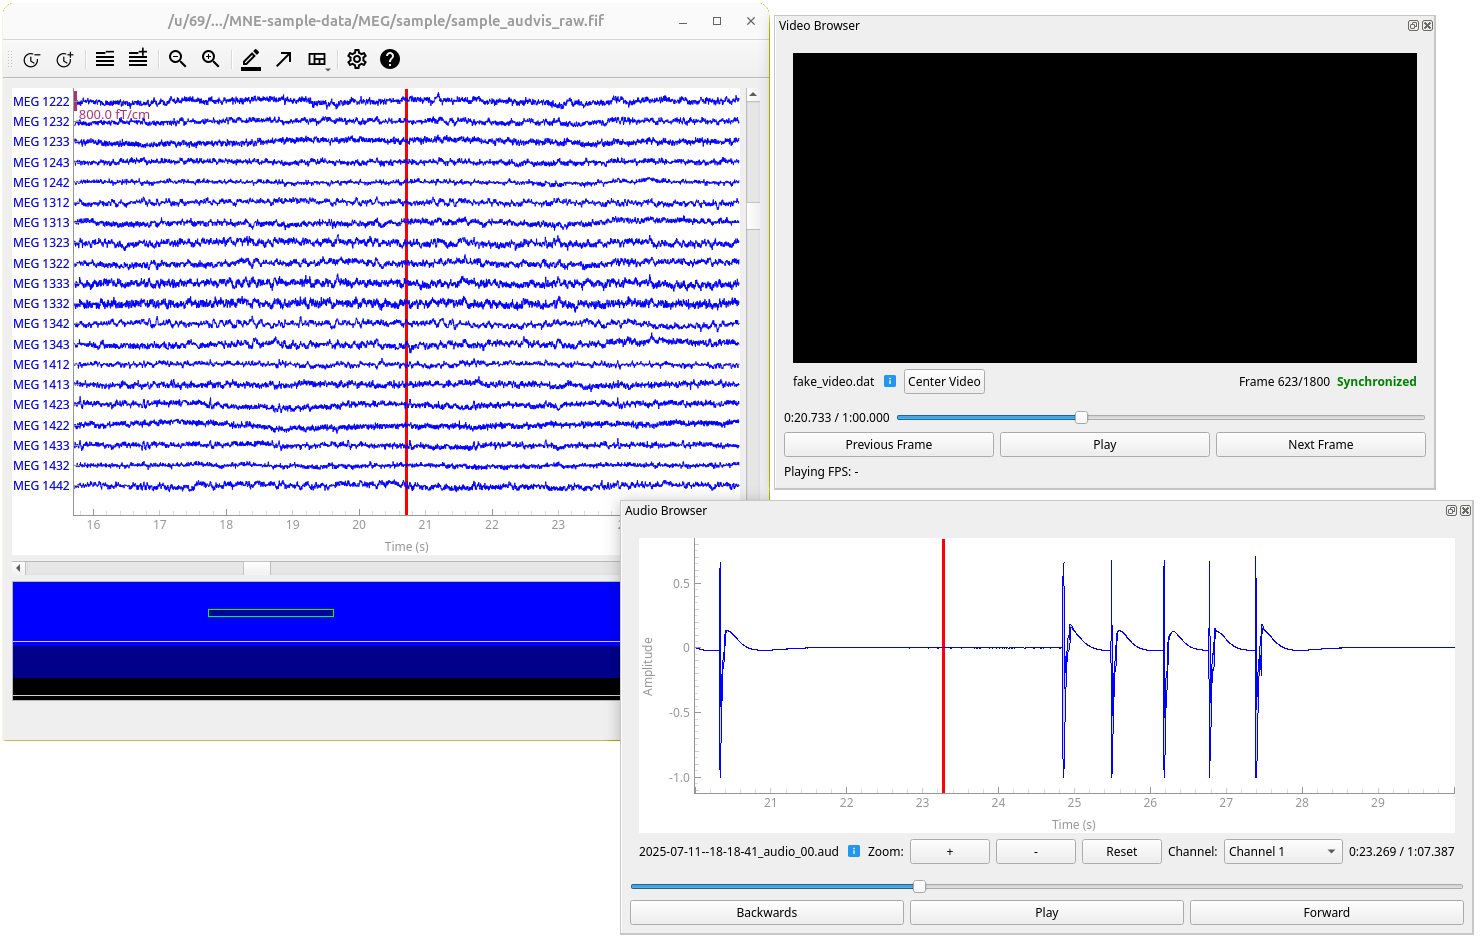
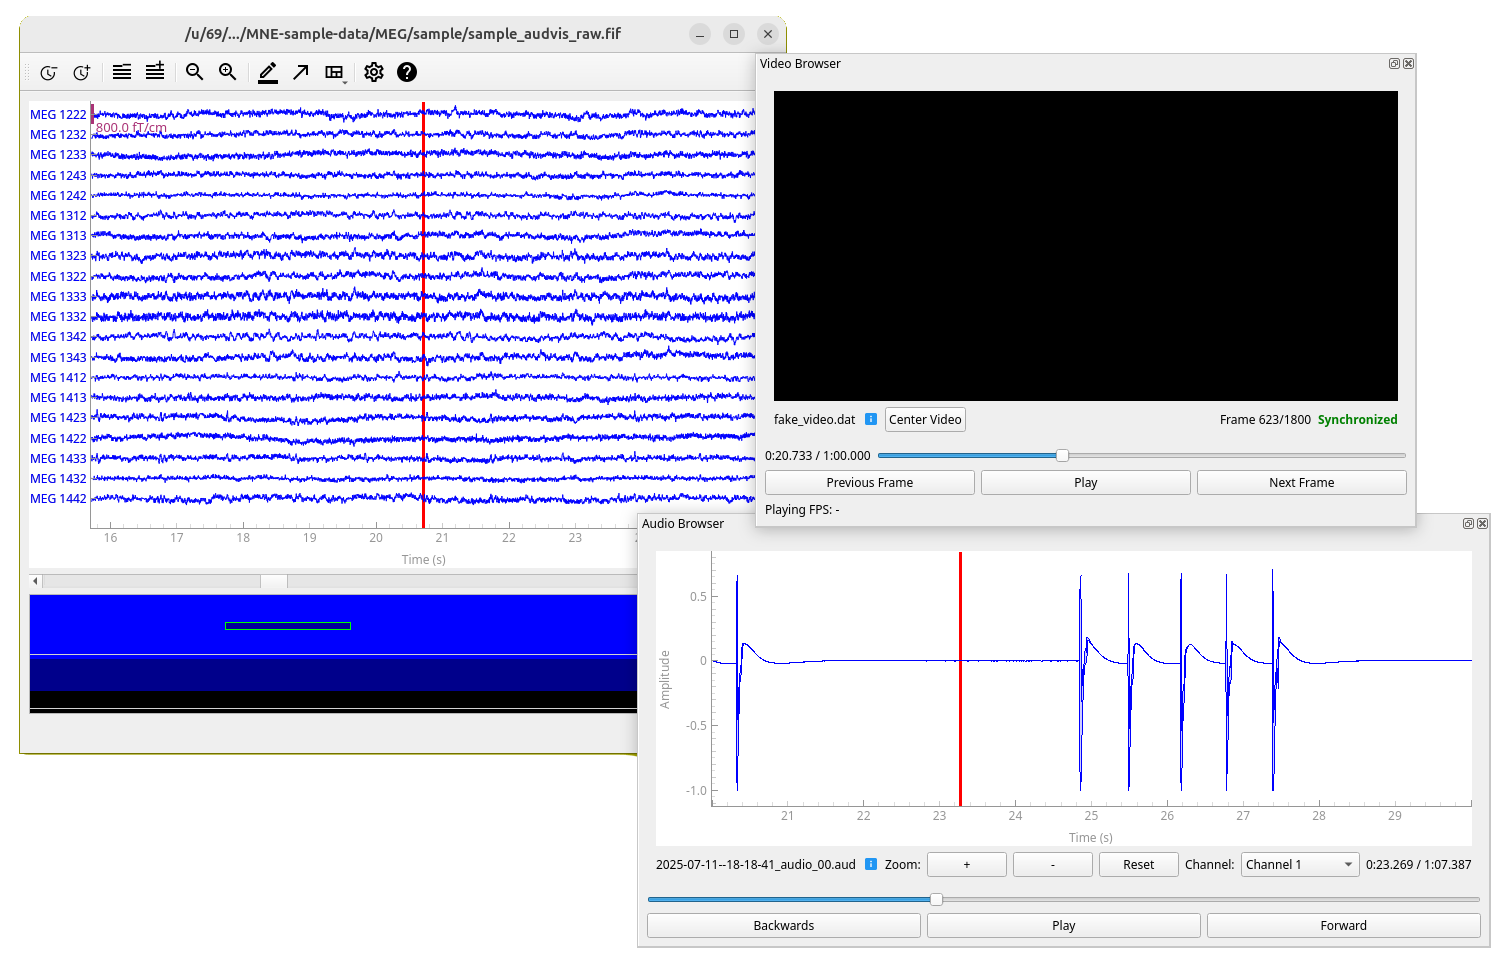
Make screenshot better and update caption

Changed region(s): [[0.0, 0.0, 1.0, 1.0], [0.7129, 0.6157, 0.8679, 0.8004]]

diff --git a/README.md b/README.md
@@ -9,8 +9,7 @@ This project also complements [Helsinki VideoMEG project](https://github.com/Hel
 by supporting video and audio files recorded with their software.
 
 ![VideoMEG browser screenshot](browser_screenshot.png)
-Screenshot of the browser extension showing video from our validation measurement (in which a plushie named Herba kindly
-volunteered to be the test subject), synchronized with MNE-Python's sample MEG data.
+Screenshot of the browser extension showing a black video frame and a test audio file synchronized with MNE-Python's sample MEG data.
 
 ## Installation
 
